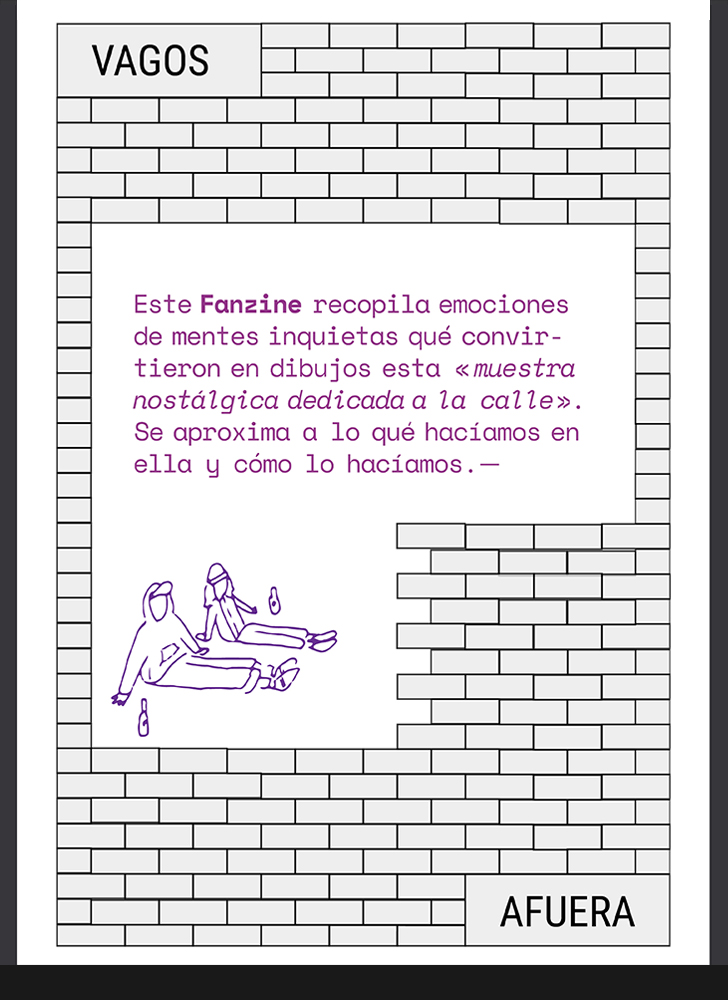
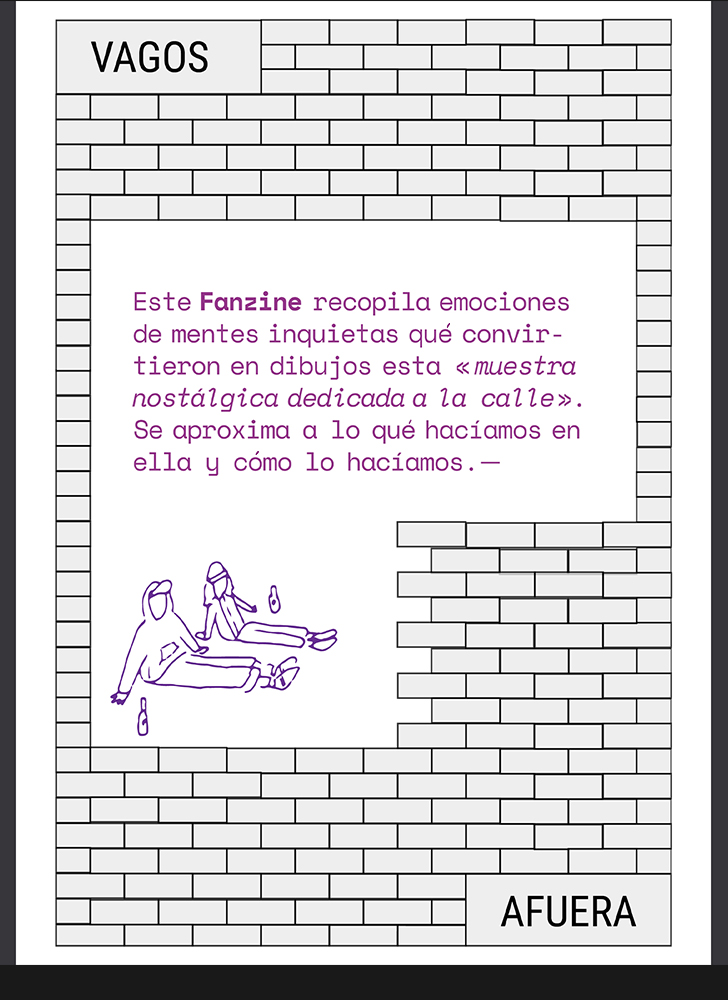
tamaños

Changed region(s): [[0.0604, 0.0, 0.9368, 0.93], [0.0, 0.0, 0.0302, 0.031]]

diff --git a/index.html b/index.html
@@ -4,7 +4,7 @@
 		<meta charset="utf-8">
 		<meta name="viewport" content="width=device-width, initial-scale=1.0, maximum-scale=1.0, user-scalable=no">
 
-		<title>sallyWebzine#</title>
+		<title>sallyWebzine#1</title>
 
 		<link rel="stylesheet" href="css/reset.css">
 		<link rel="stylesheet" href="css/reveal.css">
@@ -26,11 +26,11 @@
 		<img data-src="img/l1.png" style="position:absolute; max-width: 70px; " alt="">
 		<div class="reveal">
 			<div class="slides">
-			<section><img data-src="img/p1.jpg" style="border: none;" width="508px; position: absolute; " alt=""> </section>
-			<section><img data-src="img/p2.jpg" style="border: none;" width="508px; position: absolute; " alt=""></section>
-			<section><img data-src="img/p3.jpg" style="border: none;" width="490px; position: absolute; " alt=""></section>
-			<section><img data-src="img/p4.jpg" style="border: none;" width="508px; position: absolute;  " alt=""></section>
-			<section><img data-src="img/p13.jpg" style="border: none;" width="508px; position: absolute;  " alt=""></section>
+			<section><img data-src="img/p1.jpg" style="border: none;" width="400px; position: absolute; " alt=""> </section>
+			<section><img data-src="img/p2.jpg" style="border: none;" width="400px; position: absolute; " alt=""></section>
+			<section><img data-src="img/p3.jpg" style="border: none;" width="400px; position: absolute; " alt=""></section>
+			<section><img data-src="img/p4.jpg" style="border: none;" width="400px; position: absolute;  " alt=""></section>
+			<section><img data-src="img/p13.jpg" style="border: none;" width="400px; position: absolute;  " alt=""></section>
 			</div>
 		</div>
 
@@ -44,7 +44,7 @@
 				hash: true,
 				width: 960,
 				height: 700,
-				minScale: 0.76,
+				minScale: 0.72,
 				maxScale: 1,
 				dependencies: [
 					{ src: '//cdnjs.cloudflare.com/ajax/libs/socket.io/2.2.0/socket.io.js', async: true },
